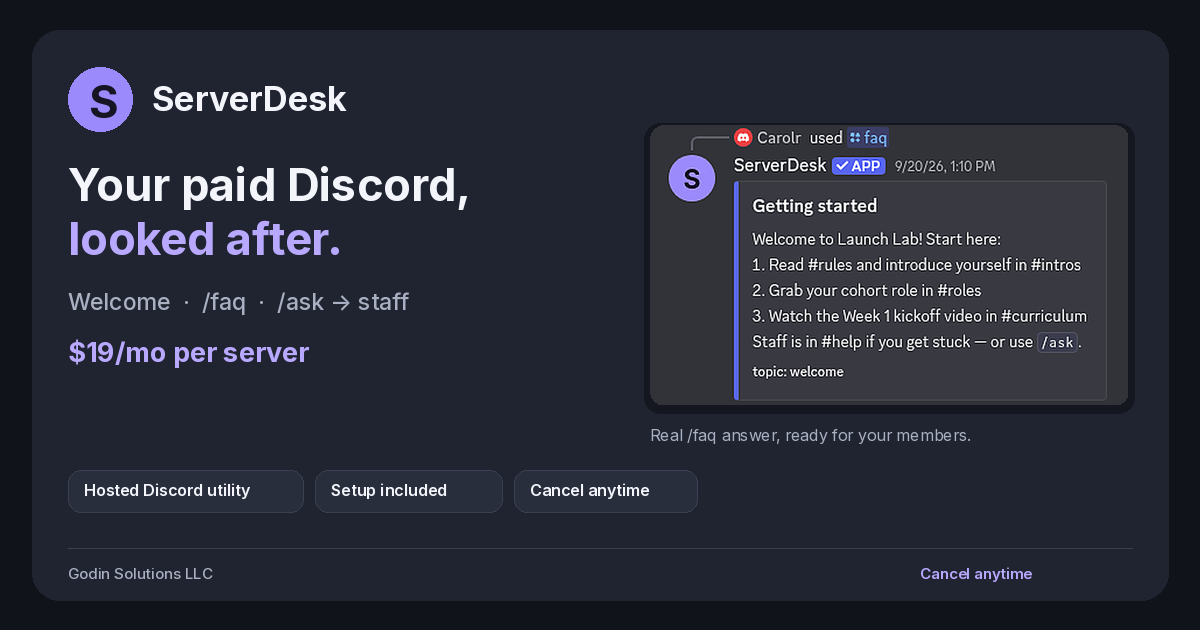
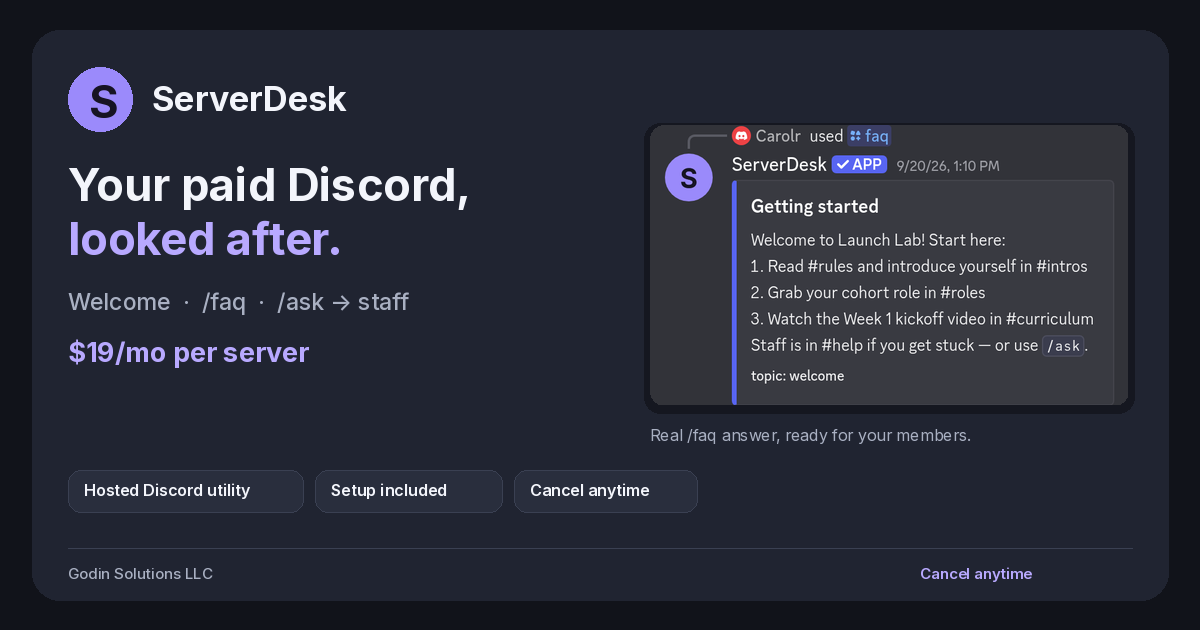
Swap native 2× /faq proof into hero + OG
Use proof-faq-hires.png (800×517 Discord zoom capture) instead of soft upscaled proof. Caption stays /faq-only; no proof-ask.png.

Changed region(s): [[0.555, 0.181, 0.925, 0.6333]]

diff --git a/index.html b/index.html
@@ -57,8 +57,8 @@
           <img
             class="proof-shot"
             src="images/faq-proof.png"
-            width="1040"
-            height="611"
+            width="800"
+            height="517"
             alt="Discord screenshot: Carolr uses /faq and ServerDesk replies with a Getting started guide"
             loading="eager"
             decoding="async"
